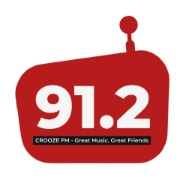
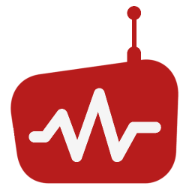
auto

diff --git a/src/app/layout.tsx b/src/app/layout.tsx
@@ -19,7 +19,7 @@ import { CarouselProvider } from "./context/carousel-context";
 import "./styles/globals.css";
 
 const sans = localFont({
-  src: "/fonts/croozefm-geltaverse-912912912912.woff2",
+  src: "/fonts/cfm-geltaverse-912912912912.woff2",
   variable: "--fonts-sans",
   display: "swap",
   style: "normal",
@@ -42,13 +42,13 @@ export const viewport: Viewport = {
 
 export const metadata: Metadata = {
   title: {
-    template: "%s | 91.2 Crooze FM",
-    default: "Welcome | 91.2 Crooze FM",
+    template: "%s | CFM Pulse",
+    default: "Welcome | CFM Pulse",
   },
   description:
     "Welcome to the Home of Western Uganda's Biggest Radio Station. Great Music, Great Friends. Stream Live Radio with an Improved Miniplayer. Browse the Current News Daily, our Popular Shows, Presenter Profiles and the Gallery. Cheers!!!",
   keywords:
-    "91.2 Crooze FM, Western Uganda's Biggest Radio Station, Great Music, Great Friends, Crooze fm stream live, Western Uganda, Mbarara, Mbarara City, Muti-lane, Ntare Road, Crooze FM Mixtapes, The Morning Addiction, The Lifestyle Show, The Most Wanted Hits, African Countdown, Evening Switch, Hits Selector, Sports Bwino, Fat Friday Mix, Urban Breakfast, Inyaa Clare, Belga MC, Monique Mbabazi, African music, Sports Updates, Bwino, Kafulu wa Bwino, Crooze FM News",
+    "CFM Pulse, 91.2 Crooze FM, Western Uganda's Biggest Radio Station, Great Music, Great Friends, Crooze fm stream live, Western Uganda, Mbarara, Mbarara City, Muti-lane, Ntare Road, Crooze FM Mixtapes, The Morning Addiction, The Lifestyle Show, The Most Wanted Hits, African Countdown, Evening Switch, Hits Selector, Sports Bwino, Fat Friday Mix, Urban Breakfast, Inyaa Clare, Belga MC, Monique Mbabazi, African music, Sports Updates, Bwino, Kafulu wa Bwino, Crooze FM News",
   metadataBase: new URL("https://croozefm.geltaverse.com"),
   applicationName: "Crooze FM",
   creator: "Gelthem Mucunguzi",
@@ -88,8 +88,8 @@ export const metadata: Metadata = {
 
   openGraph: {
     title: {
-      template: "%s | 91.2 Crooze FM",
-      default: "Welcome | 91.2 Crooze FM",
+      template: "%s | CFM Pulse",
+      default: "Welcome | CFM Pulse",
     },
     description:
       "Home of Western Uganda's Biggest Radio Station. Great Music, Great Friends.",
@@ -107,8 +107,8 @@ export const metadata: Metadata = {
 
   twitter: {
     title: {
-      template: "%s | 91.2 Crooze FM",
-      default: "Welcome | 91.2 Crooze FM",
+      template: "%s | CFM Pulse",
+      default: "Welcome | CFM Pulse",
     },
     description:
       "Home of Western Uganda's Biggest Radio Station. Great Music, Great Friends.",

diff --git a/src/app/cookieconsent.tsx b/src/app/cookieconsent.tsx
@@ -40,14 +40,13 @@ export default function CookieConsent() {
     <FixedDiv>
       <div className="p-2 text-sm">
         <Cookie className="w-6 h-6" />
+        <h3 className="font-medium text-lg text-red mb-2 _912cfm">
+          Guess what? Cookies!
+        </h3>
         <p className="my-2.5" id="cookie-consent-title">
-          By continuing to use this site, you’re agreeing to let us use cookies
-          to keep this beast alive and thriving indefinitely.
-        </p>
-        <p className="my-2.5" id="cookie-consent-title">
-          If you’d rather starve it, you can adjust your settings, but be
-          warned—the beast might not be too happy about that! You should know
-          that...
+          By continuing to use this site, you&apos;re agreeing to let us use
+          cookies to keep this beast alive and thriving indefinitely. You should
+          know that...
         </p>
         <button
           onClick={handleAccept}

diff --git a/src/app/components/header-footer/navigation/logo.tsx b/src/app/components/header-footer/navigation/logo.tsx
@@ -12,15 +12,15 @@ export const Logo = ({ onLogoClick, className = "" }: LogoProps) => (
   <Link
     href="/home"
     onClick={onLogoClick}
-    className={`relative flex items-center w-24 ${className}`}
+    className={`relative flex items-center w-16 ${className}`}
   >
     <Image
       src="/cfm-logo.png"
       alt="CroozeFM Logo"
-      width={8192}
-      height={3304}
+      width={5900}
+      height={2860}
       priority={true}
-      className="w-full aspect-[1024/413] _img_"
+      className="w-full aspect-[295/143] _img_"
     />
   </Link>
 );

diff --git a/src/app/components/providers/tracklist/tracklist.tsx b/src/app/components/providers/tracklist/tracklist.tsx
@@ -16,7 +16,6 @@ export default function Tracklist() {
           <h3 className="font-medium text-lg text-red mb-2 _912cfm">
             Recently Played
           </h3>
-
           {currentTrack && (
             <div className="w-full mx-auto mb-2 text-left">
               <TrackCard
